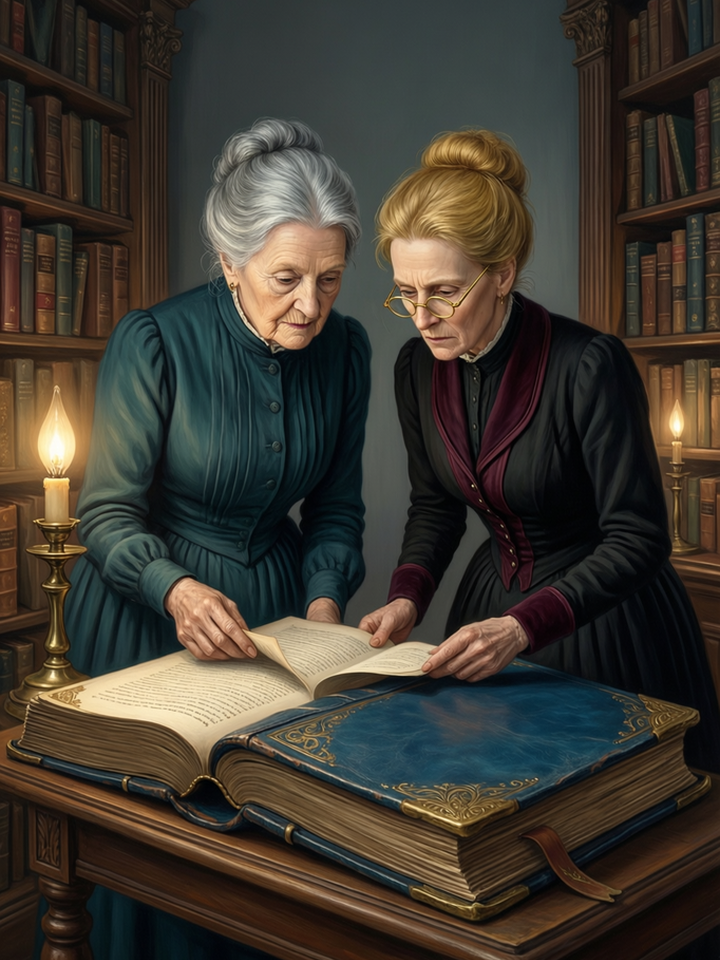
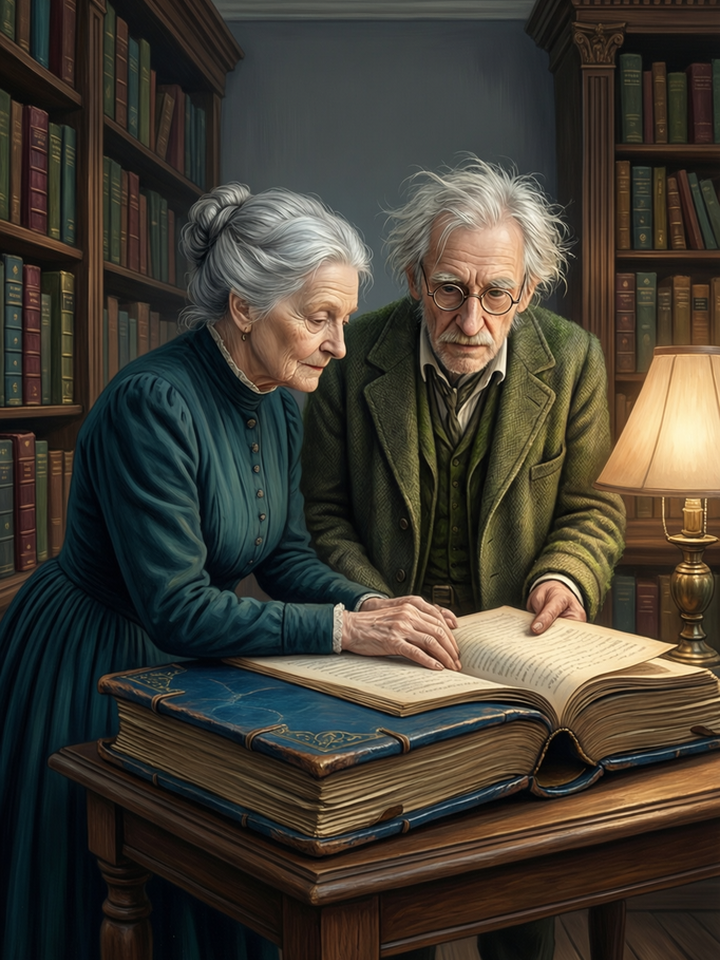
art: no cast before their arrival in panels
check_story now flags any panel whose cast includes someone before their
arrival day (area_opened panels use the area's first task day). The Volume IV
chronicle (day 47) showed Zephyrine (arrives day 90) and Volume V (day 52)
showed Prudence (day 80): recast to Sam with Cornelia, and Cornelia with
Aldous, and regenerated the three panels.

diff --git a/tools/check_story.py b/tools/check_story.py
@@ -70,6 +70,43 @@ def repetition_problems(entries):
     return problems
 
 
+def area_first_days(els):
+    """{area: first task day} from the elements' task keys ("<day>_<n>")."""
+    first = {}
+    for e in els:
+        for k in e["tasks"]:
+            d = int(k.split("_")[0])
+            first[e["area"]] = min(first.get(e["area"], d), d)
+    return first
+
+
+def panel_day(trigger, first_day):
+    """The story day a panel scene plays on, or None when its trigger has no day."""
+    kind, _, arg = trigger.partition(":")
+    if kind == "day":
+        return int(arg)
+    if kind == "task":
+        return int(arg.split("_")[0])
+    if kind == "area_opened":
+        return first_day.get(int(arg))
+    return None
+
+
+def panel_cast_problems(panels, first_day):
+    """Panels whose cast (scene-level or per panel) shows someone before their arrival day."""
+    problems = []
+    for s in panels:
+        day = panel_day(s.get("trigger", ""), first_day)
+        if day is None:
+            continue
+        for i, p in enumerate(s.get("panels", [])):
+            for who in p.get("cast", s.get("cast", [])):
+                if who in UNLOCK and UNLOCK[who] > day:
+                    problems.append("panel %s_%d (day %d) shows %s before arrival day %d"
+                                    % (s["id"], i, day, who, UNLOCK[who]))
+    return problems
+
+
 def check(through=None):
     fin, els, _mt = story_days.day_finals()
     last_day = max(fin)
@@ -138,6 +175,7 @@ def check(through=None):
         for k in MILESTONES:
             if trig["task:" + k] != 1:
                 problems.append("task:%s panels: %d" % (k, trig["task:" + k]))
+        problems += panel_cast_problems(panels, area_first_days(els))
         caps = Counter(p["caption"] for s in panels for p in s["panels"])
         problems += ["repeated caption: %r" % c[:40] for c, n in caps.items() if n > 1]
     return problems, len(beats), sum(1 for s in scenes if s["kind"] == "panel")

diff --git a/tools/test_check_story.py b/tools/test_check_story.py
@@ -42,6 +42,26 @@ class RepetitionGuardTest(unittest.TestCase):
         mixed = pairs[:1] + [("The Pin Board", beat("sam", "Do look at this pin board, darling."))] * 4
         self.assertEqual(check_story.template_problems(mixed), [])
 
+    def test_panel_cast_before_arrival_flagged(self):
+        first = {13: 44}
+        panels = [
+            {"id": "chron", "trigger": "task:47_11", "cast": ["zephyrine", "cornelia"],
+             "panels": [{"caption": "a"}]},
+            {"id": "open13", "trigger": "area_opened:13", "cast": ["cornelia"],
+             "panels": [{"caption": "b", "cast": ["prudence"]}]},
+            {"id": "arr", "trigger": "day:90", "cast": ["zephyrine"], "panels": [{"caption": "c"}]},
+        ]
+        problems = check_story.panel_cast_problems(panels, first)
+        self.assertEqual(len(problems), 2)
+        self.assertIn("chron_0 (day 47) shows zephyrine", problems[0])
+        self.assertIn("open13_0 (day 44) shows prudence", problems[1])
+
+    def test_panel_day(self):
+        self.assertEqual(check_story.panel_day("day:60", {}), 60)
+        self.assertEqual(check_story.panel_day("task:52_11", {}), 52)
+        self.assertEqual(check_story.panel_day("area_opened:14", {14: 48}), 48)
+        self.assertIsNone(check_story.panel_day("element:02_001", {}))
+
     def test_real_story_config_has_no_problems(self):
         problems, _beats, _panels = check_story.check()
         self.assertEqual(problems, [])
